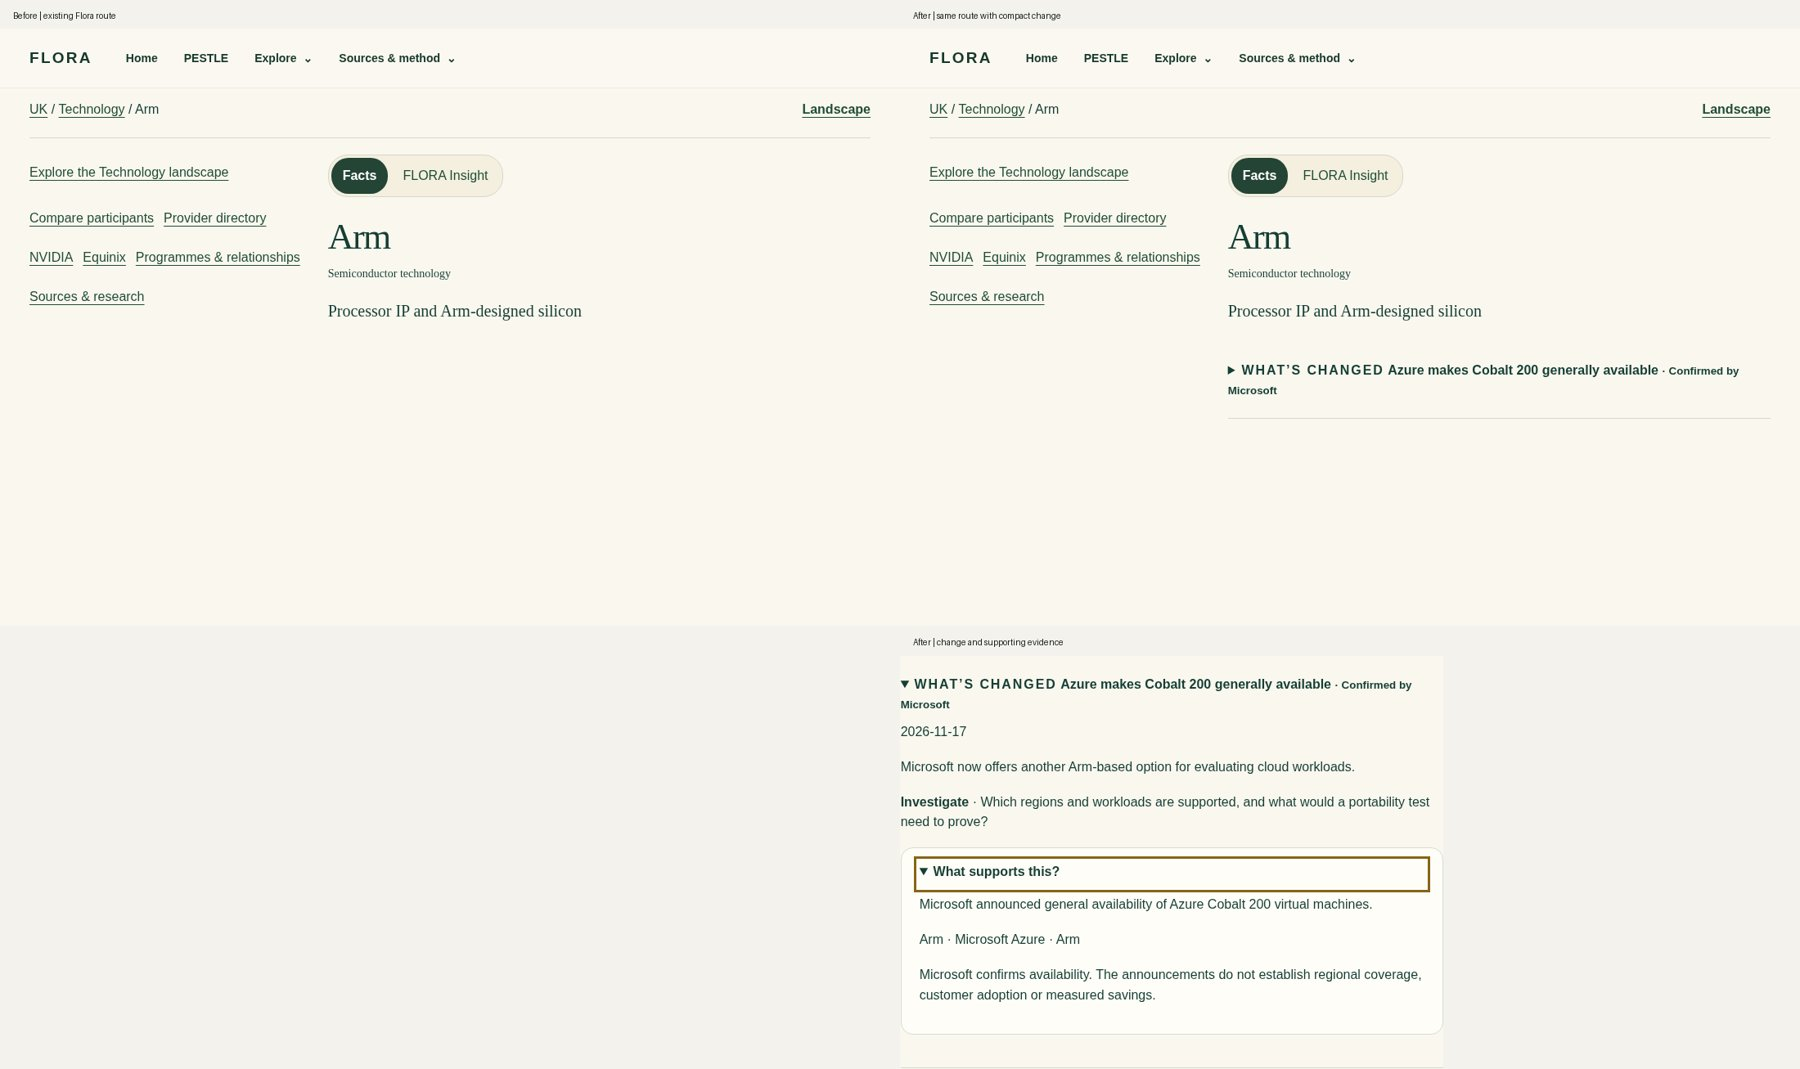
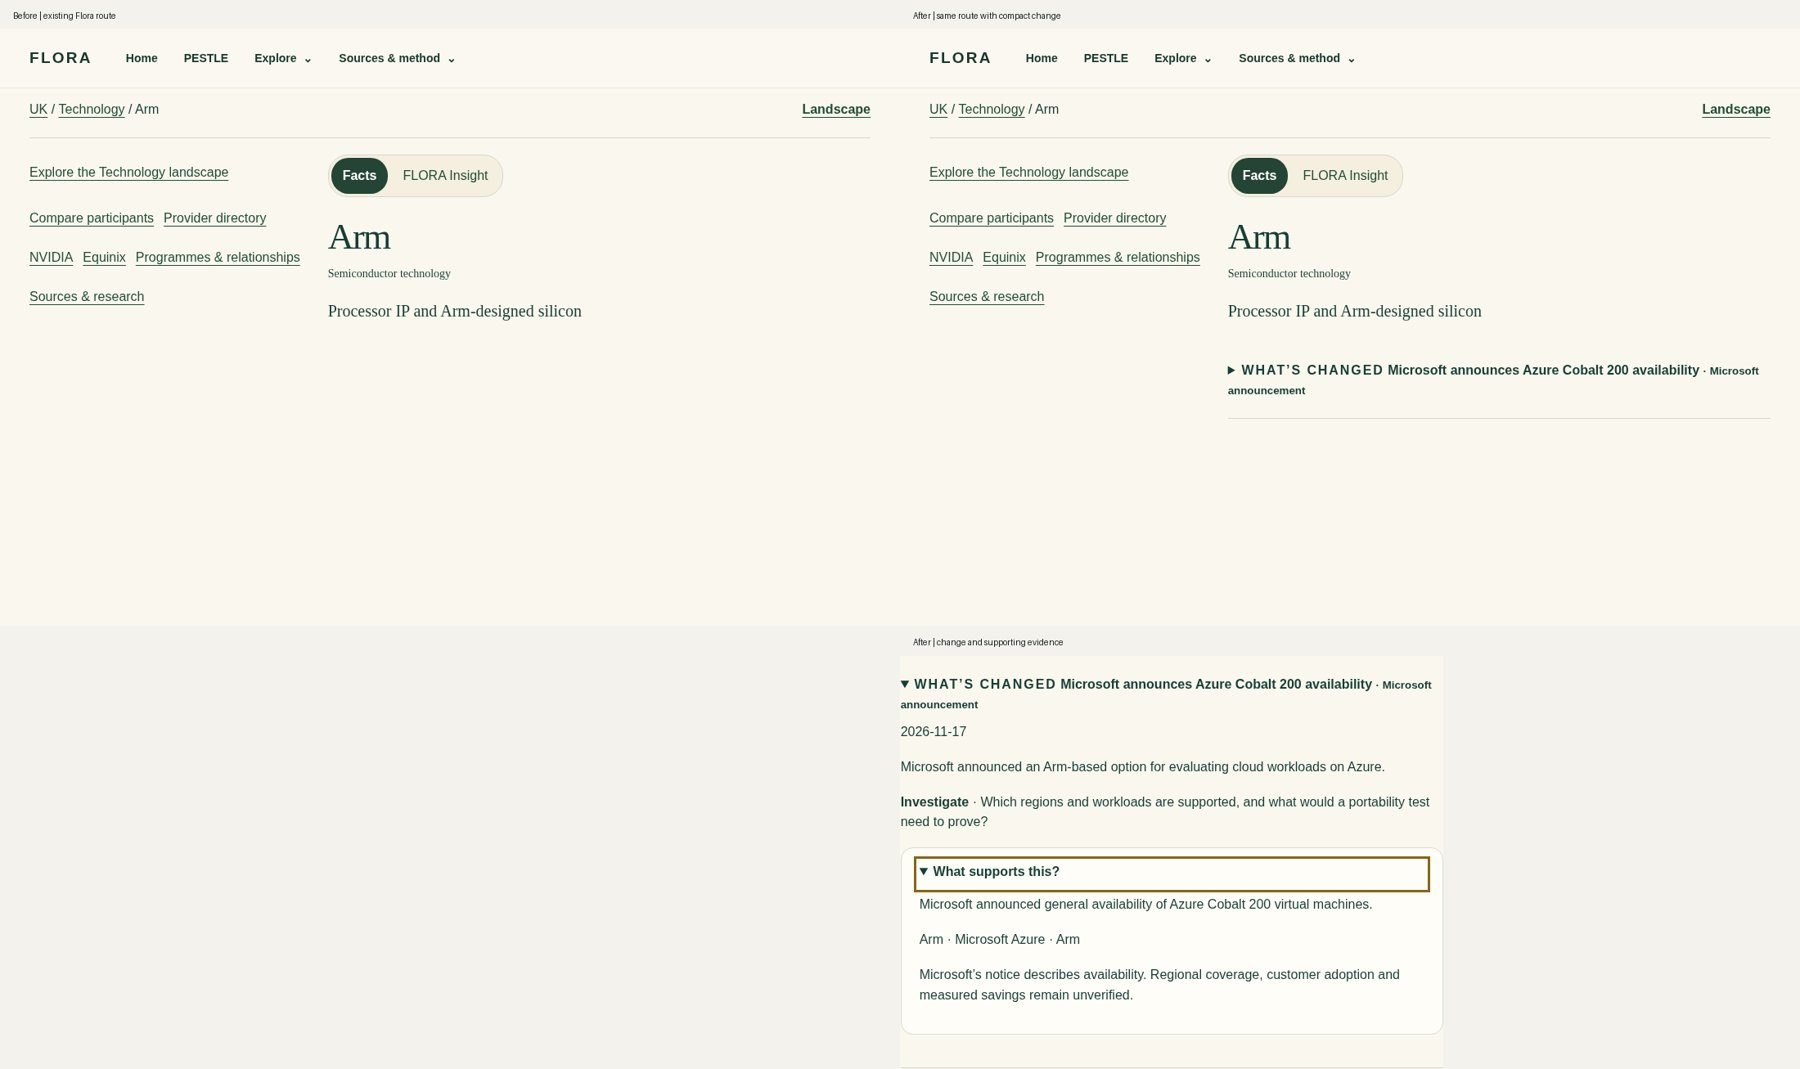
Keep the investigated Arm card scoped to the announcement

diff --git a/tests/test_flora_verified_factory.py b/tests/test_flora_verified_factory.py
@@ -49,6 +49,13 @@ def test_verified_change_route(result, tmp_path, monkeypatch, verified_flora_tes
         assert original['url'] == prior['url']
         prior['sha256'] = original['digest']
         payload['commercial_change']['corroboration']['sha256'] = original['digest']
+        payload['commercial_change'].update(
+            headline='Microsoft announces Azure Cobalt 200 availability',
+            confidence='Microsoft announcement',
+            meaning='Microsoft announced an Arm-based option for evaluating cloud workloads on Azure.',
+        )
+        payload['caveat'] = ('Microsoft’s notice describes availability. Regional coverage, customer adoption '
+                             'and measured savings remain unverified.')
     evidence, _ = result['records']
     headline = evidence['payload']['commercial_change']['headline']
     alias, route = ROUTES[enterprise]
